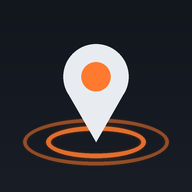
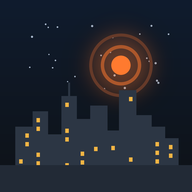
Нова назва «Небо над містом»: іконка, написи, порядок блоків, бот
Claude-Session: https://claude.ai/code/session_015py6KWtHSs56Kf8EzhiGY8

diff --git a/index.html b/index.html
@@ -9,10 +9,10 @@
 <meta name="mobile-web-app-capable" content="yes">
 <meta name="apple-mobile-web-app-capable" content="yes">
 <meta name="apple-mobile-web-app-status-bar-style" content="black">
-<meta name="apple-mobile-web-app-title" content="Влучання">
+<meta name="apple-mobile-web-app-title" content="Небо">
 <link rel="apple-touch-icon" href="icon-180.png">
 <link rel="icon" type="image/png" href="favicon-32.png">
-<title>Рейтинг тилових міст за влучаннями</title>
+<title>Небо над містом — загрози й влучання в тилових містах</title>
 <link rel="preconnect" href="https://fonts.googleapis.com"><link rel="preconnect" href="https://fonts.gstatic.com" crossorigin>
 <link rel="stylesheet" href="https://fonts.googleapis.com/css2?family=JetBrains+Mono:wght@500;700&family=Manrope:wght@400;600;700&family=Unbounded:wght@500;700&display=swap">
 <link rel="stylesheet" href="https://unpkg.com/leaflet@1.9.4/dist/leaflet.css" crossorigin="">
@@ -148,6 +148,7 @@ td.num, th.num { text-align: right; font-variant-numeric: tabular-nums; white-sp
 
 /* ===== Оперативний штаб ===== */
 header.hq { display: flex; justify-content: space-between; align-items: center; gap: 12px; margin-bottom: 22px; }
+.tagline { margin: -2px 0 6px; font: 500 15px var(--f-body); color: var(--text-secondary); }
 .brand { display: flex; align-items: center; gap: 10px; font: 500 13px var(--f-display); color: var(--text-secondary); }
 .brand svg { width: 26px; height: 26px; color: var(--text-secondary); }
 .status { display: inline-flex; align-items: center; gap: 8px; font: 500 12px var(--f-mono); color: var(--text-secondary);
@@ -287,11 +288,13 @@ h1.title, .sub { text-shadow: 0 1px 12px rgba(14,18,23,.9); }
 <canvas id="heroBg" aria-hidden="true"></canvas>
 <div class="wrap">
   <header class="hq">
-    <div class="brand"><svg viewBox="0 0 32 32" aria-hidden="true"><ellipse cx="16" cy="25" rx="11" ry="3.4" fill="none" stroke="currentColor" stroke-opacity=".45" stroke-width="1.6"/><path d="M16 3.5a8.5 8.5 0 0 0-8.5 8.5c0 6.2 8.5 13.5 8.5 13.5s8.5-7.3 8.5-13.5A8.5 8.5 0 0 0 16 3.5z" fill="#e8ecf1"/><circle cx="16" cy="12" r="3.6" fill="#ff7a2f"/></svg><span>Влучання</span></div>
+    <div class="brand"><svg viewBox="0 0 32 32" aria-hidden="true"><circle cx="20" cy="10" r="7" fill="none" stroke="#ff7a2f" stroke-opacity=".45" stroke-width="1.5"/><circle cx="20" cy="10" r="3.2" fill="#ff7a2f"/><path d="M3 29V20h4v-3h4v5h3v-7h5v8h3v-4h4v4h3v6z" fill="#e8ecf1" fill-opacity=".85"/></svg><span>Моніторинг тилових міст</span></div>
     <div class="status" id="status"><i></i><span></span></div>
   </header>
-  <h1 class="title">Рейтинг тилових міст за влучаннями</h1>
+  <h1 class="title">Небо над містом</h1>
+  <p class="tagline">Що летить, куди влучило, як живе твоє місто</p>
   <div class="sub" id="sub"></div>
+  <section class="threats" id="threats" hidden aria-live="polite"></section>
   <div class="live" id="live" hidden>
     <div class="seg" role="group" aria-label="Період">
       <button data-w="1">Доба</button><button data-w="7">7 днів</button><button data-w="30">30 днів</button><button data-w="all">Весь період</button>
@@ -299,7 +302,6 @@ h1.title, .sub { text-shadow: 0 1px 12px rgba(14,18,23,.9); }
     <label class="tog"><input type="checkbox" id="lvBorder"> з містами ближче до фронту</label>
     <label class="mycity">Моє місто <select id="lvCity"><option value="">— вибрати —</option></select></label>
   </div>
-  <section class="threats" id="threats" hidden aria-live="polite"></section>
   <section class="mycard" id="myCard" hidden></section>
   <div class="toast" id="toast" role="status" aria-live="polite"></div>
 
@@ -314,7 +316,7 @@ h1.title, .sub { text-shadow: 0 1px 12px rgba(14,18,23,.9); }
       <div id="map"></div>
     </section>
     <section class="card rank">
-      <h2>Рейтинг міст
+      <h2>Де влучало найчастіше
         <span class="tabs" role="group" aria-label="Вигляд">
           <button id="vChart" aria-pressed="true">Графік</button><button id="vTable" aria-pressed="false">Таблиця</button>
         </span>
@@ -537,7 +539,7 @@ window.renderReport = function (DATA) {
     if (!C.length) return;
     const W = box.clientWidth || 600, rowH = 26, padT = 4, labW = 132, valW = 92;
     const H = padT + C.length * rowH + 4;
-    const svg = el('svg', { width: W, height: H, role: 'img', 'aria-label': 'Рейтинг міст за кількістю подій' }, box);
+    const svg = el('svg', { width: W, height: H, role: 'img', 'aria-label': 'Де влучало найчастіше: міста за кількістю подій' }, box);
     const max = Math.max(...C.map(c => c.events));
     const x = v => (W - labW - valW) * v / max;
     // gridlines (recessive)
@@ -974,7 +976,7 @@ renderReport(DATA);
     const on = pushCity === my || pushCity === '*';
     nb.hidden = false;
     nb.disabled = perm === 'denied';
-    nb.textContent = perm === 'denied' ? 'Сповіщення заблоковано в браузері' : on ? '🔔 Сповіщення увімкнено' : '🔕 Сповіщати про влучання';
+    nb.textContent = perm === 'denied' ? 'Сповіщення заблоковано в браузері' : on ? '🔔 Сповіщення увімкнено' : '🔕 Попереджати про загрози й влучання';
     nb.title = on ? 'Натисніть, щоб вимкнути' : 'Сповіщення прийдуть, навіть коли додаток закритий';
     nb.onclick = async () => {
       nb.disabled = true;
@@ -983,7 +985,7 @@ renderReport(DATA);
         else {
           if (await Notification.requestPermission() !== 'granted') throw new Error('perm');
           await pushSubscribe(my);
-          toast(`<b>Сповіщення увімкнено</b><br>Щойно з'явиться допис про влучання в місті ${esc(my)}, прийде сповіщення — навіть коли додаток закритий.`);
+          toast(`<b>Сповіщення увімкнено</b><br>Попереджатиму, щойно щось летітиме на ${esc(my)} чи область або з'явиться допис про влучання — навіть коли додаток закритий.`);
         }
       } catch (e) { toast(e.message === 'perm' ? 'Дозвіл на сповіщення не надано. Його можна ввімкнути в налаштуваннях браузера для цього сайту.' : 'Не вдалося ввімкнути сповіщення. Спробуйте пізніше.'); }
       myCard();

diff --git a/sw.js b/sw.js
@@ -1,6 +1,6 @@
 // Рейтинг влучань — офлайн-режим: сторінка звіту завжди спершу з мережі (щоб бачити свіжий звіт),
 // без інтернету — остання збережена копія.
-const CACHE = 'rv-v4';
+const CACHE = 'rv-v5';
 const CORE = ['./', './manifest.webmanifest', './icon-192.png', './icon-512.png'];
 
 self.addEventListener('install', e => {

diff --git a/server/bot.py b/server/bot.py
@@ -90,6 +90,27 @@ class Notifier:
                     return True
             raise RuntimeError("BotFather не прийняв жодне ім'я: " + r.raw_text[:200])
 
+    async def rebrand(self, user_client):
+        """Одноразово оновлює назву й опис бота через @BotFather (від службового акаунта)."""
+        flag = self.data / "bot_brand_v1"
+        if flag.exists() or not self.me:
+            return
+        u = "@" + self.me.username
+        steps = [("/setname", u, "Небо над містом"),
+                 ("/setdescription", u, "Попередження про повітряні загрози та влучання в тилових містах України — з офіційних і моніторингових каналів. Напишіть назву свого міста."),
+                 ("/setabouttext", u, "Небо над містом: що летить, куди влучило, як живе твоє місто. ugi-analytics.github.io/rating")]
+        try:
+            async with user_client.conversation("BotFather", timeout=40) as conv:
+                for cmd, who, val in steps:
+                    for m in (cmd, who, val):
+                        await asyncio.sleep(1.5)
+                        await conv.send_message(m)
+                        await conv.get_response()
+            flag.write_text("ok")
+            self.log("Бота перейменовано: «Небо над містом»")
+        except Exception as e:
+            self.log(f"! перейменування бота: {type(e).__name__}: {e}")
+
     # ---------- запуск бота ----------
     async def start(self):
         if not self.token_f.exists():
@@ -132,12 +153,12 @@ class Notifier:
         @c.on(events.NewMessage(pattern=r"^/(start|help)"))
         async def start(ev):
             await ev.respond(
-                "Я надсилаю сповіщення, щойно в офіційних каналах ОВА та міських голів "
+                "<b>Небо над містом</b>\nЯ надсилаю сповіщення, щойно в офіційних каналах ОВА та міських голів "
                 "з'являється повідомлення про влучання чи вибух у вашому місті.\n\n"
                 "• Напишіть назву міста — додати або прибрати його (наприклад: <code>Полтава</code>)\n"
                 "• /all — усі міста\n• /my — мої міста\n• /cities — список міст\n• /stop — вимкнути все\n\n"
                 + self._status(ev.chat_id), parse_mode="html",
-                buttons=[Button.url("Відкрити рейтинг", APP_URL)])
+                buttons=[Button.url("Відкрити «Небо над містом»", APP_URL)])
 
         @c.on(events.NewMessage(pattern=r"^/my"))
         async def my(ev):

diff --git a/server/push.py b/server/push.py
@@ -108,7 +108,7 @@ class Push:
         if not s:
             return
         what = "усі міста" if s.get("all") else ", ".join(s.get("cities", []))
-        payload = json.dumps({"title": "🔔 Сповіщення увімкнено", "body": f"Стежу за: {what}. Щойно з'явиться допис про влучання — прийде сповіщення.",
+        payload = json.dumps({"title": "🔔 Небо над містом: сповіщення увімкнено", "body": f"Стежу за: {what}. Щойно з'явиться допис про влучання — прийде сповіщення.",
                               "tag": "rv-confirm", "url": "https://ugi-analytics.github.io/rating/"}, ensure_ascii=False)
         r = await asyncio.to_thread(self._send, s["sub"], payload)
         self.log(f"Тестове push-сповіщення: {r}")

diff --git a/server/live.py b/server/live.py
@@ -317,6 +317,7 @@ async def main():
             await notifier.create_via_botfather(client)
         if await notifier.start():
             BOT["name"] = notifier.me.username
+            asyncio.create_task(notifier.rebrand(client))
     except Exception as e:
         BOT["err"] = f"{type(e).__name__}: {e}"[:300]
         log(f"! Бот не запустився: {BOT['err']}")
